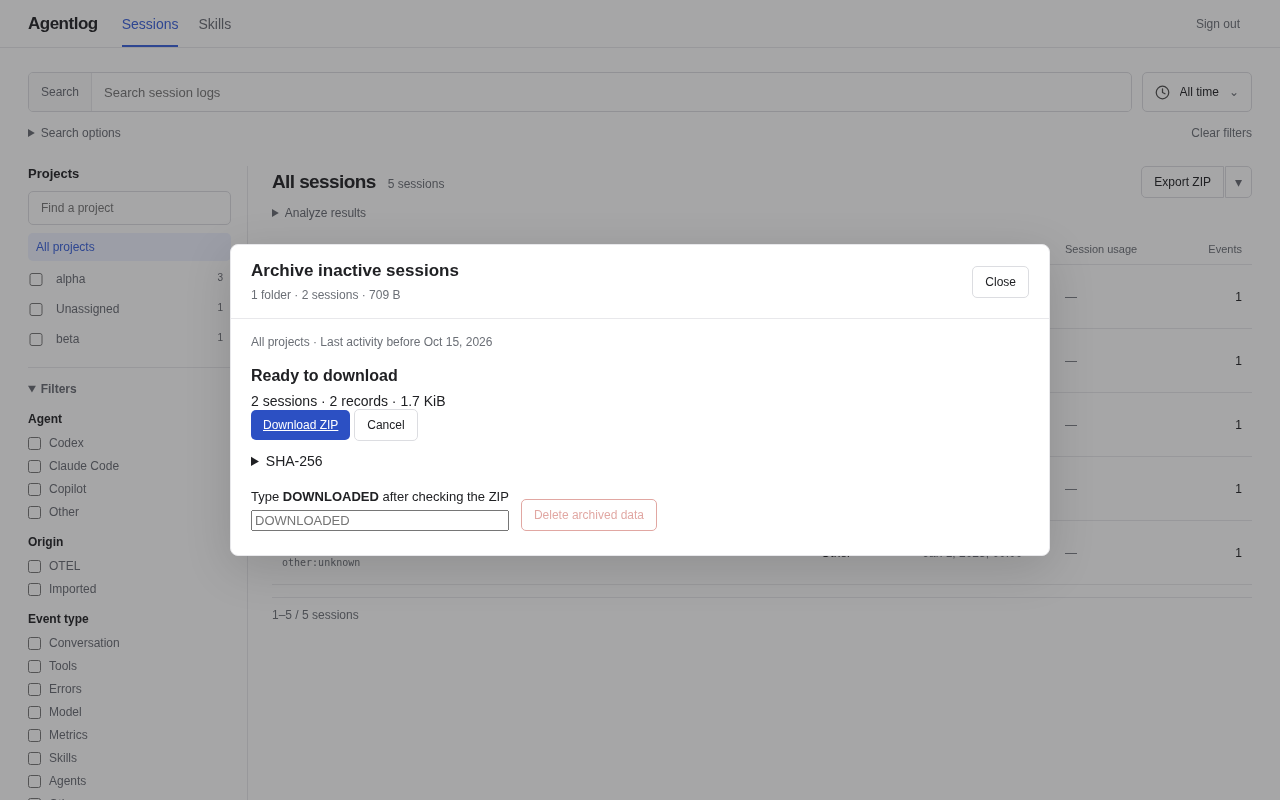
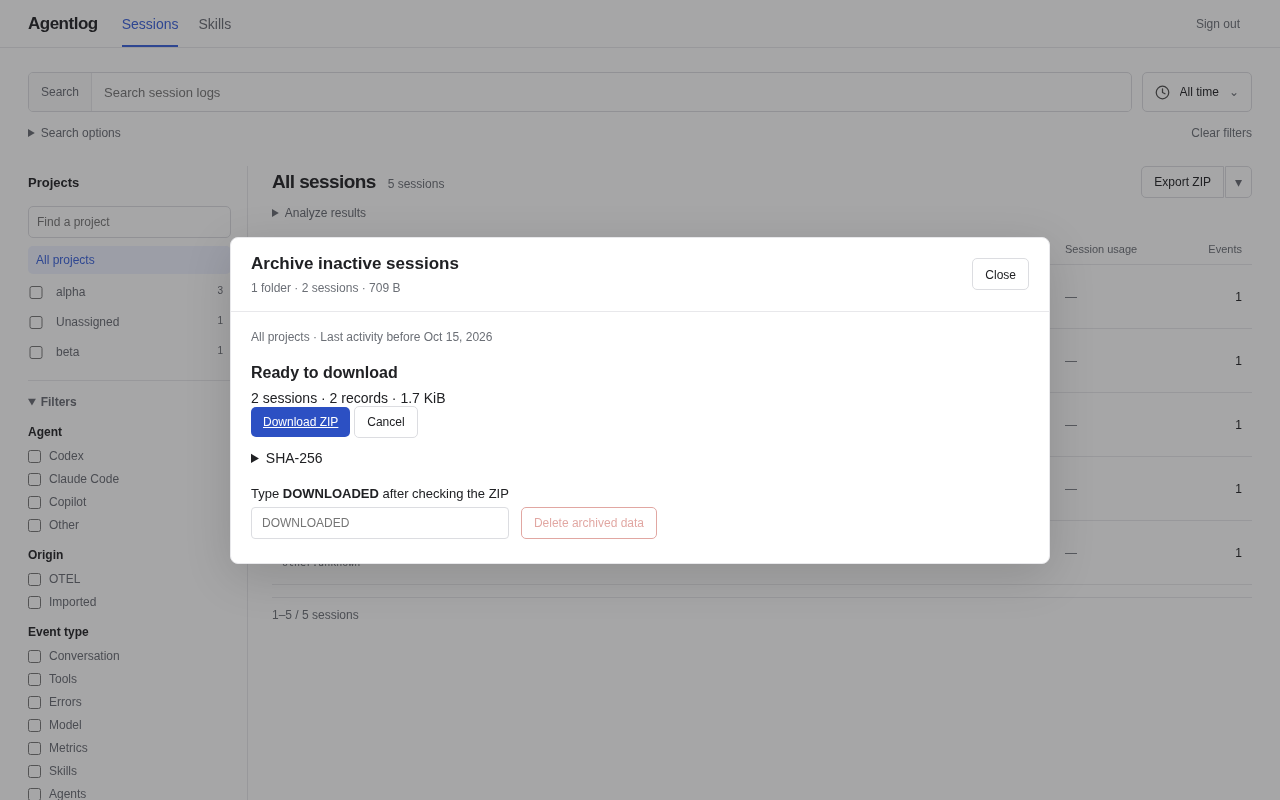
docs: レイアウト点検結果と変更前後の実スクリーンショットを記録

diff --git a/docs/layout-review.md b/docs/layout-review.md
@@ -1,0 +1,22 @@
+# Layout review
+
+Captured the running application in Chromium with synthetic sessions, long Japanese/English labels and a Japanese locale. Reviewed widths of 1920, 1440, 1024, 768, 390 and 320px, plus a 1024×520 short window. The 56 captures cover list, search options, time picker, long project heading, Skills, session detail, inspector, original JSON and archive states. API loading was delayed for one capture to inspect the actual loading state.
+
+| Finding | Correction | Before / after |
+| --- | --- | --- |
+| At 1920px, navigation began at x=28, the list at x=88 and details at x=188. On mobile, navigation began at x=10 and content at x=14. | Shared maximum width and responsive gutter variables align all page origins: x=88 at 1920px, x=14 at 390px. | [Wide before](layout-review/sessions-1920-before.png) / [after](layout-review/sessions-1920-after.png) |
+| Project and result headings occupied different-height rows. | Match the desktop heading row heights; keep compact mobile headings. Mobile time popovers and dialogs also use the page gutter instead of conflicting browser defaults. | Same wide captures |
+| A mobile list row placed its agent on a separate row with an empty left cell. | Place the agent beside the title. The measured first row shrank from 83px to 64px while retaining its title, ID and agent. | [Mobile before](layout-review/sessions-390-before.png) / [after](layout-review/sessions-390-after.png) |
+| At 1024×900, the inspector extended to y=1186, outside the viewport. Loading text touched its border and tabs used a different inset. | Fit the panel to the actual available viewport on open, resize and scroll; keep the bottom at y=888 with a 12px clearance. Match header/body/tab insets and pad loading/error text. | [Inspector before](layout-review/inspector-1024-before.png) / [after](layout-review/inspector-1024-after.png) |
+| Wrapped skill names were cramped; multiline headers and numeric cells lacked consistent alignment. | Increase wrapped-text line height, bottom-align column headers and right-align numeric values. Mobile labels retain left alignment. | Covered by 768px and mobile audit captures |
+| Archive size columns reserved unnecessary width, Japanese dates split before the final 日, and confirmation input/button dimensions differed. | Size byte columns to their content, right-align their text, keep dates whole, and use a shared 32px control height. Confirmation input fills its mobile column ([download confirmation](layout-review/confirmation-after.png)). Remove empty selection-label spacing. | [Archive before](layout-review/archive-320-before.png) / [after](layout-review/archive-320-after.png) |
+
+## Reproduce
+
+```sh
+AGENTLOG_BIN=./agentlog AGENTLOG_SCREENSHOT_DIR=/tmp/layout-review python3 scripts/layout_browser_test.py
+```
+
+The script writes screenshots and `measurements.json`. It checks shared page axes, actual numeric/byte text edges, mobile row placement, document overflow, panel bounds and header stability while scrolling. `AGENTLOG_LAYOUT_CHECKS=0` allows capture of older versions that intentionally fail the new alignment checks.
+
+Existing browser checks cover tool-pair navigation, fixed inspector headers/mobile focus behavior, archive ZIP/download confirmation/deletion/replay suppression, shared search, Skills and project/timeline navigation. Layout work adds no data migration, network polling or application dependency.
